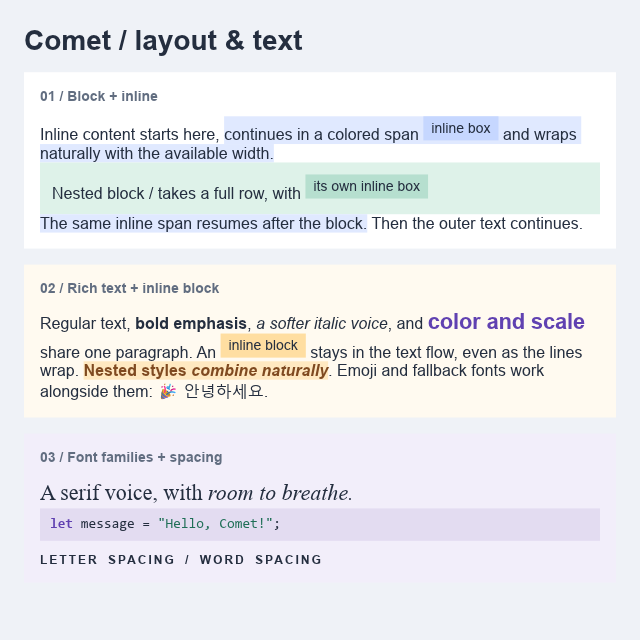
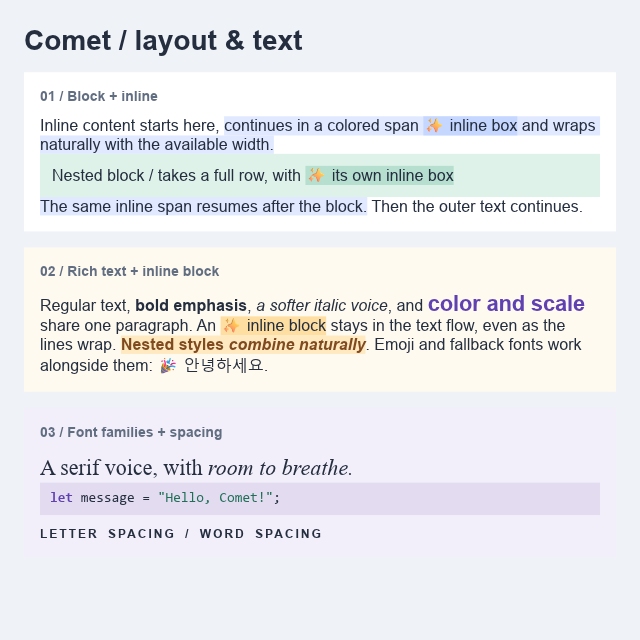
feat: update example

diff --git a/crates/comet/examples/common/mod.rs b/crates/comet/examples/common/mod.rs
@@ -237,11 +237,11 @@ fn badge(ui: &mut Ui, parent: NodeKey, label: &str, color: Color) {
             DisplayOuter::Inline,
             DisplayInner::FlowRoot,
             Fill(Paint::Solid(color)),
-            FontSize(StyleUnit::Px(14.0)),
-            Padding(Rect::new_axis(StyleUnit::Px(4.0), StyleUnit::Px(8.0))),
         ),
     );
+
     ui.append(parent, badge);
+    text(ui, badge, "✨ ");
     text(ui, badge, label);
 }
 
